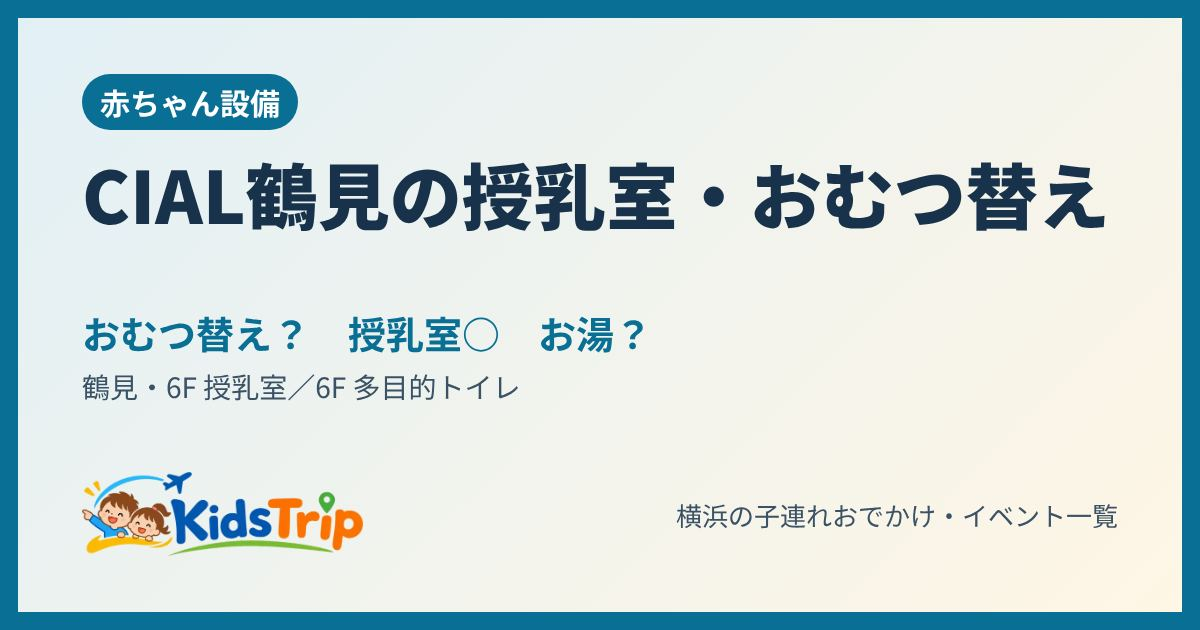
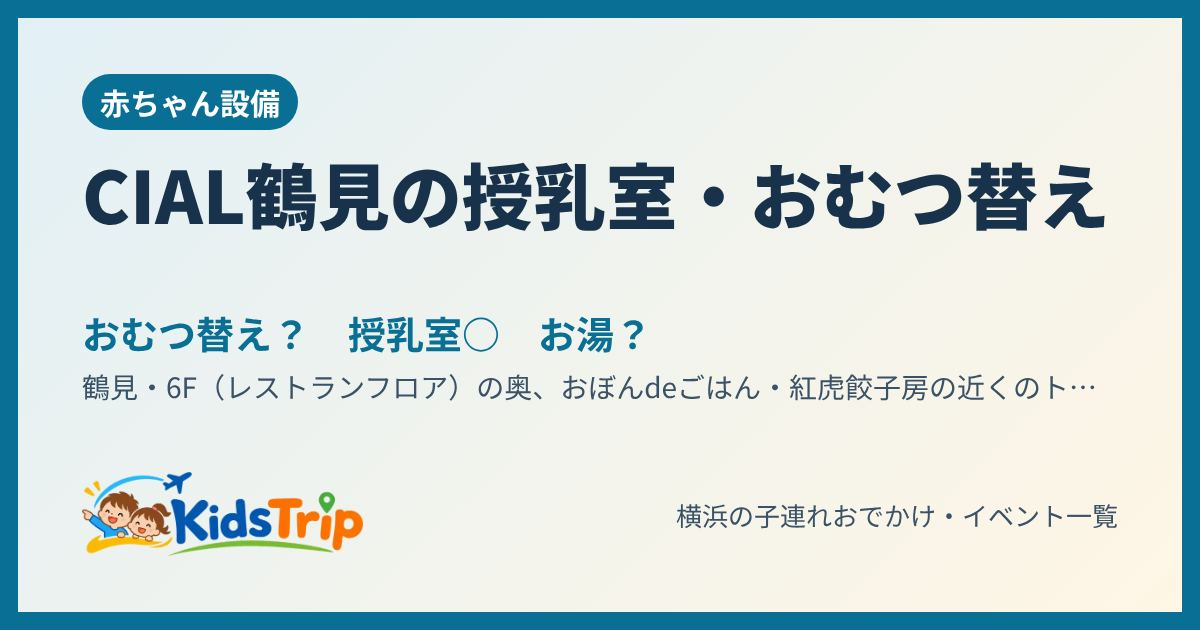
CIAL鶴見：授乳室の場所・営業時間を公式の画面から追加、位置を鶴見駅に修正（桜木町の位置になっていた）
Claude-Session: https://claude.ai/code/session_014AtJ2g3ghW1boxsW7syVwL

Changed region(s): [[0.1542, 0.573, 0.8942, 0.6333]]

diff --git a/spot/1hr0yvi/index.html b/spot/1hr0yvi/index.html
@@ -4,12 +4,12 @@
 <meta charset="utf-8">
 <meta name="viewport" content="width=device-width, initial-scale=1">
 <title>CIAL鶴見の授乳室は何階？おむつ替え・お湯｜KidsTrip</title>
-<meta name="description" content="CIAL鶴見（鶴見）の授乳室・おむつ替えの場所：6F 授乳室／6F 多目的トイレ。授乳室あり。">
+<meta name="description" content="CIAL鶴見（鶴見）の授乳室・おむつ替えの場所：6F（レストランフロア）の奥、おぼんdeごはん・紅虎餃子房の近くのトイレの並びに授乳室と多目的トイレ（6Fフロアガイド）。授乳室あり。">
 <link rel="canonical" href="https://kidstrip.jp/spot/1hr0yvi/">
 <meta property="og:type" content="article">
 <meta property="og:site_name" content="KidsTrip">
 <meta property="og:title" content="CIAL鶴見の授乳室は何階？おむつ替え・お湯｜KidsTrip">
-<meta property="og:description" content="CIAL鶴見（鶴見）の授乳室・おむつ替えの場所：6F 授乳室／6F 多目的トイレ。授乳室あり。">
+<meta property="og:description" content="CIAL鶴見（鶴見）の授乳室・おむつ替えの場所：6F（レストランフロア）の奥、おぼんdeごはん・紅虎餃子房の近くのトイレの並びに授乳室と多目的トイレ（6Fフロアガイド）。授乳室あり。">
 <meta property="og:url" content="https://kidstrip.jp/spot/1hr0yvi/">
 <meta property="og:image" content="https://kidstrip.jp/og/spot-1hr0yvi.jpg">
 <meta property="og:image:width" content="1200">
@@ -21,7 +21,7 @@
 <link rel="icon" href="../../img/favicon.png">
 <link rel="apple-touch-icon" href="../../img/apple-touch-icon.png">
 <script type="application/ld+json">{"@context": "https://schema.org", "@type": "BreadcrumbList", "itemListElement": [{"@type": "ListItem", "position": 1, "name": "トップ", "item": "https://kidstrip.jp/"}, {"@type": "ListItem", "position": 2, "name": "ごはん・おむつ", "item": "https://kidstrip.jp/#foodall"}, {"@type": "ListItem", "position": 3, "name": "CIAL鶴見"}]}</script>
-<script type="application/ld+json">{"@context": "https://schema.org", "@type": "Place", "name": "CIAL鶴見", "description": "CIAL鶴見（鶴見）の授乳室・おむつ替えの場所：6F 授乳室／6F 多目的トイレ。授乳室あり。", "url": "https://kidstrip.jp/spot/1hr0yvi/", "image": ["https://kidstrip.jp/og/spot-1hr0yvi.jpg"], "address": {"@type": "PostalAddress", "addressLocality": "横浜市", "addressRegion": "神奈川県", "addressCountry": "JP"}, "amenityFeature": [{"@type": "LocationFeatureSpecification", "name": "授乳室", "value": true}], "publicAccess": true, "sameAs": "https://www.jryscc.co.jp/cial/tsurumi/service/", "hasMap": "https://www.google.com/maps/search/?api=1&query=CIAL鶴見"}</script>
+<script type="application/ld+json">{"@context": "https://schema.org", "@type": "Place", "name": "CIAL鶴見", "description": "CIAL鶴見（鶴見）の授乳室・おむつ替えの場所：6F（レストランフロア）の奥、おぼんdeごはん・紅虎餃子房の近くのトイレの並びに授乳室と多目的トイレ（6Fフロアガイド）。授乳室あり。", "url": "https://kidstrip.jp/spot/1hr0yvi/", "image": ["https://kidstrip.jp/og/spot-1hr0yvi.jpg"], "address": {"@type": "PostalAddress", "addressLocality": "横浜市", "addressRegion": "神奈川県", "addressCountry": "JP"}, "amenityFeature": [{"@type": "LocationFeatureSpecification", "name": "授乳室", "value": true}], "publicAccess": true, "sameAs": "https://www.jryscc.co.jp/cial/tsurumi/service/", "hasMap": "https://www.google.com/maps/search/?api=1&query=CIAL鶴見"}</script>
 <style>
 .gkcmp th[scope=row]{white-space:nowrap}.gkcmp td{font-size:.92em}
 .gk{list-style:none;padding:0}.gk li{border:1px solid #e5e5e5;border-radius:10px;padding:10px 12px;margin:8px 0;line-height:1.7}.gk h3{margin:0 0 2px;font-size:1.02em}
@@ -52,19 +52,19 @@ footer{margin:28px 0 8px;font-size:12px;color:var(--muted)}
 <h1>CIAL鶴見（JR鶴見駅ビル）の授乳室・おむつ替え・お湯</h1>
 <table class="bm"><thead><tr><th>場所</th><th>おむつ替え</th><th>授乳室</th><th>お湯</th><th>レンジ</th></tr></thead><tbody><tr><th>CIAL鶴見</th><td class="u">？</td><td class="y">○</td><td class="u">？</td><td class="u">？</td></tr></tbody></table>
 <p class="legend">○ あり　× なし　？ 調べた範囲で確認できず</p>
-<table class="info"><tr><th>場所</th><td>6F 授乳室／6F 多目的トイレ</td></tr><tr><th>エリア</th><td>鶴見</td></tr></table>
+<table class="info"><tr><th>場所</th><td>6F（レストランフロア）の奥、おぼんdeごはん・紅虎餃子房の近くのトイレの並びに授乳室と多目的トイレ（6Fフロアガイド）</td></tr><tr><th>エリア</th><td>鶴見</td></tr></table>
 <ul class="chips"><li>6Fはレストランフロア（そば・とんかつ・定食・中華・イタリアンなど）</li></ul>
-<p class="sum">授乳室と多目的トイレはどちらも6F。おむつ替えの台・お湯・ベビーカー貸出は公式ページに記載なし。</p>
-<p class="small">出典：CIAL鶴見公式（サービス・館内のご案内／6Fフロアガイド・2026年11月確認）</p>
+<p class="sum">授乳室と多目的トイレはどちらも6Fで、トイレと並んでいる（6Fフロアガイド）。6Fは11:00〜22:30（ラストオーダー22:00）、1〜5Fのお店は10:00〜21:00。おむつ替えの台・お湯・電子レンジ・ベビーカー貸出は公式ページに記載なし。</p>
+<p class="small">出典：CIAL鶴見公式（サービス・館内のご案内／営業時間／6Fフロアガイド。利用者が送った公式の画面、2026年11月）</p>
 <div class="btns"><a class="btn main" data-act="official" href="https://www.jryscc.co.jp/cial/tsurumi/service/" target="_blank" rel="noopener">公式ページで確認</a>
 <a class="btn" href="https://www.google.com/maps/search/?api=1&amp;query=CIAL鶴見" target="_blank" rel="noopener">地図で見る</a>
 <button type="button" class="btn" data-share="1">🔗 リンクを送る・コピー</button></div>
 </article>
 
-<h2>歩いて10分以内の子連れで入りやすいごはん</h2><ul class="links food"><li><b>アロハテーブル コレットマーレみなとみらい（1F）</b>（ハワイアン）　ベビーカーで約2分<span class="tag">ベビーカーのまま入店OK</span><span class="tag">ベビーチェア</span><span class="tag">おむつ交換台</span></li><li><b>ベーカリーレストラン サンマルク コレットマーレみなとみらい店（6F）</b>（ベーカリーレストラン）　ベビーカーで約2分<span class="tag">ベビーカーOK（チェーンの案内）</span><span class="tag">桜木町駅すぐ</span></li><li><b>ダッキーダックキッチン コレットマーレみなとみらい店</b>（洋食）　ベビーカーで約2分<span class="tag">桜木町駅すぐ</span></li><li><b>モスプレミアム 桜木町クロスゲート店（1F）</b>（ハンバーガー）　ベビーカーで約4分<span class="tag">ベビーカーのまま入りやすい</span><span class="tag">席が広い</span><span class="tag">子ども歓迎</span></li></ul><p class="small">時間はベビーカーで歩いたときのめやす（直線距離から計算）。メニューや営業時間は行く前にお店で確かめてください。</p>
-<h2>歩いて15分以内でベビー服・子ども服・靴が買えるお店</h2><ul class="links food"><li><a href="https://colettemare-yokohama.com/shop/259885" target="_blank" rel="noopener">and ST コレットマーレ</a><span class="tag">キッズ</span>　お店のページで確認してください　ベビーカーで約2分</li><li><a href="https://www.muji.com/jp/shop/045614" target="_blank" rel="noopener">無印良品 Colette・Mareみなとみらい</a><span class="tag">キッズ</span>　11:00〜20:00　ベビーカーで約2分</li><li><a href="https://map.gu-global.com/jp/ja/" target="_blank" rel="noopener">GU コレットマーレ店</a><span class="tag">キッズ</span>　公式の店舗ページで確認してください（キッズ服あり・ベビー服はなし）　ベビーカーで約2分</li><li><a href="https://map.uniqlo.com/jp/ja/" target="_blank" rel="noopener">ユニクロ コレットマーレ桜木町店</a><span class="tag">ベビー・キッズ</span>　公式の店舗ページで確認してください　ベビーカーで約2分</li><li><a href="https://www.minatomirai-square.com/floor/detail/?cd=000013" target="_blank" rel="noopener">ABC-MART Premier Stage みなとみらい東急スクエア</a><span class="tag">子どもの靴</span>　お店のページで確認してください　ベビーカーで約12分</li></ul><p class="small">急なおもらし・汚れの着替えや、靴を忘れたときに。時間は直線距離からのめやす。在庫・営業時間はお店で確かめてください（出典：各チェーン公式の店舗検索）。</p>
+
+<h2>歩いて15分以内でベビー服・子ども服・靴が買えるお店</h2><ul class="links food"><li><a href="https://map.uniqlo.com/jp/ja/" target="_blank" rel="noopener">ユニクロ シァル鶴見店</a><span class="tag">ベビー・キッズ</span>　公式の店舗ページで確認してください　ベビーカーで約1分</li></ul><p class="small">急なおもらし・汚れの着替えや、靴を忘れたときに。時間は直線距離からのめやす。在庫・営業時間はお店で確かめてください（出典：各チェーン公式の店舗検索）。</p>
 <h2>同じエリアのほかの赤ちゃん設備</h2><table class="bm"><thead><tr><th>場所</th><th>おむつ替え</th><th>授乳室</th><th>お湯</th><th>レンジ</th></tr></thead><tbody><tr><th scope="row"><a href="/spot/1ecb3d7/">LICOPA鶴見</a></th><td class="y">○</td><td class="y">○</td><td class="y">○</td><td class="u">？</td></tr></tbody></table><p class="legend">○ あり　× なし　？ 調べた範囲で確認できず</p>
-<h2>歩いて15分くらいで行けるイベント・遊び場</h2><ul class="links"><li><a href="/event/pxzwdk/">ANAの飛行機に色をぬろう！親子ワークショップ</a>（11月22日(日)）</li><li><a href="/event/1czplid/">野毛山動物園 キリン「バックヤードツアー」</a>（12月5日(土)・12月19日(土)）</li><li><a href="/event/1n1numf/">SDGs未来都市・環境絵日記展2026（横浜市役所）</a>（会期 11/29〜12/6）</li><li><a href="/event/21uqt/">日本丸「飾り毛布」作り体験</a>（11月22日(日)）</li><li><a href="/event/fi4kvf/">のげやま子ども図書館「おやこフロア」（ねころべる絵本の部屋）</a>（いつでも（通年の施設））</li><li><a href="/event/95o4z/">帆船日本丸 満船飾（まんせんしょく）</a>（11月23日(月)・1月11日(月)）</li><li><a href="/event/1a8qgue/">0歳から大歓迎！図書館デビューDAY（中央図書館）</a>（1月7日(木)・1月14日(木)）</li><li><a href="/event/16t5vbc/">横浜北仲マルシェ（11月）</a>（11月22日(日)・11月23日(月)）</li></ul>
+
 
 
 <footer><p>KidsTrip（キッズトリップ）横浜の子連れおでかけ・イベント一覧。施設・主催者の公式情報などをもとに要約しています。内容は変わることがあるので、出かける前に必ず公式ページで確認してください。</p>

diff --git a/event/1n1numf/index.html b/event/1n1numf/index.html
@@ -69,7 +69,7 @@ footer{margin:28px 0 8px;font-size:12px;color:var(--muted)}
 <button type="button" class="btn" data-share="1">🔗 リンクを送る・コピー</button>
 <a class="btn line" href="https://line.me/R/share?text=%E3%80%90SDGs%E6%9C%AA%E6%9D%A5%E9%83%BD%E5%B8%82%E3%83%BB%E7%92%B0%E5%A2%83%E7%B5%B5%E6%97%A5%E8%A8%98%E5%B1%952026%EF%BC%88%E6%A8%AA%E6%B5%9C%E5%B8%82%E5%BD%B9%E6%89%80%EF%BC%89%E3%80%91%0A%E4%BC%9A%E6%9C%9F%2011/29%E3%80%9C12/6%E3%80%80%E5%85%AC%E5%BC%8F%E3%83%9A%E3%83%BC%E3%82%B8%E3%81%AB%E8%A8%98%E8%BC%89%E3%81%AA%E3%81%97%EF%BC%88%E5%B8%82%E5%BD%B9%E6%89%80%E3%81%AE%E9%96%8B%E3%81%84%E3%81%A6%E3%81%84%E3%82%8B%E6%99%82%E9%96%93%E3%81%AB%EF%BC%89%0A%E5%A0%B4%E6%89%80%EF%BC%9A%E4%B8%AD%E5%8C%BA%E3%83%BB%E6%A8%AA%E6%B5%9C%E5%B8%82%E5%BD%B9%E6%89%80%201F%20%E5%B1%95%E7%A4%BA%E3%82%B9%E3%83%9A%E3%83%BC%E3%82%B9A%E3%83%BBB%EF%BC%88%E6%A1%9C%E6%9C%A8%E7%94%BA%E9%A7%85%E5%89%8D%E3%83%BB%E9%A6%AC%E8%BB%8A%E9%81%93%E9%A7%85%E7%9B%B4%E7%B5%90%EF%BC%89%0Ahttps%3A//kidstrip.jp/event/1n1numf/" target="_blank" rel="noopener">LINEで送る</a></div>
 </article>
-<h2>歩いて10分以内のおむつ替え・授乳室・お湯</h2><table class="bm"><thead><tr><th>場所</th><th>おむつ替え</th><th>授乳室</th><th>お湯</th><th>レンジ</th></tr></thead><tbody><tr><th scope="row"><a href="/spot/1l0g3g5/">横浜市役所</a></th><td class="y">○</td><td class="y">○</td><td class="y">○</td><td class="u">？</td></tr><tr><th scope="row"><a href="/spot/1icjes/">シァル桜木町</a></th><td class="u">？</td><td class="y">○</td><td class="u">？</td><td class="u">？</td></tr><tr><th scope="row"><a href="/spot/1hr0yvi/">CIAL鶴見</a></th><td class="u">？</td><td class="y">○</td><td class="u">？</td><td class="u">？</td></tr><tr><th scope="row"><a href="/spot/1qg4qi4/">コレットマーレ</a></th><td class="y">○</td><td class="y">○</td><td class="y">○</td><td class="u">？</td></tr><tr><th scope="row"><a href="/spot/5ja5s4/">横浜みなと博物館</a></th><td class="y">○</td><td class="y">○</td><td class="n">×</td><td class="u">？</td></tr><tr><th scope="row"><a href="/spot/18ge06x/">横浜ランドマークプラザ</a></th><td class="y">○</td><td class="y">○</td><td class="y">○</td><td class="y">○</td></tr></tbody></table><p class="legend">○ あり　× なし　？ 調べた範囲で確認できず</p>
+<h2>歩いて10分以内のおむつ替え・授乳室・お湯</h2><table class="bm"><thead><tr><th>場所</th><th>おむつ替え</th><th>授乳室</th><th>お湯</th><th>レンジ</th></tr></thead><tbody><tr><th scope="row"><a href="/spot/1l0g3g5/">横浜市役所</a></th><td class="y">○</td><td class="y">○</td><td class="y">○</td><td class="u">？</td></tr><tr><th scope="row"><a href="/spot/1icjes/">シァル桜木町</a></th><td class="u">？</td><td class="y">○</td><td class="u">？</td><td class="u">？</td></tr><tr><th scope="row"><a href="/spot/1qg4qi4/">コレットマーレ</a></th><td class="y">○</td><td class="y">○</td><td class="y">○</td><td class="u">？</td></tr><tr><th scope="row"><a href="/spot/5ja5s4/">横浜みなと博物館</a></th><td class="y">○</td><td class="y">○</td><td class="n">×</td><td class="u">？</td></tr><tr><th scope="row"><a href="/spot/18ge06x/">横浜ランドマークプラザ</a></th><td class="y">○</td><td class="y">○</td><td class="y">○</td><td class="y">○</td></tr></tbody></table><p class="legend">○ あり　× なし　？ 調べた範囲で確認できず</p>
 <h2>行き方のめやす</h2><ul class="links"><li>🚃 最寄り 桜木町駅（ブルーライン）：歩いて約2分・エレベーターあり</li><li>🚃 桜木町駅（JR京浜東北線）：歩いて約5分・エレベーターあり</li><li>🅿 駐車場1か所（ランドマーク駐車場など・混みやすい）　🚲 CIAL桜木町 駐輪場（約4分・最初の90分無料、以降24時間ごと80円）ほか2か所</li></ul>
 <h2>歩いて10分以内の子連れで入りやすいごはん</h2><ul class="links food"><li><b>モスプレミアム 桜木町クロスゲート店（1F）</b>（ハンバーガー）　ベビーカーで約2分<span class="tag">ベビーカーのまま入りやすい</span><span class="tag">席が広い</span><span class="tag">子ども歓迎</span></li><li><b>アロハテーブル コレットマーレみなとみらい（1F）</b>（ハワイアン）　ベビーカーで約5分<span class="tag">ベビーカーのまま入店OK</span><span class="tag">ベビーチェア</span><span class="tag">おむつ交換台</span></li><li><b>ベーカリーレストラン サンマルク コレットマーレみなとみらい店（6F）</b>（ベーカリーレストラン）　ベビーカーで約5分<span class="tag">ベビーカーOK（チェーンの案内）</span><span class="tag">桜木町駅すぐ</span></li><li><b>ダッキーダックキッチン コレットマーレみなとみらい店</b>（洋食）　ベビーカーで約5分<span class="tag">桜木町駅すぐ</span></li></ul><p class="small">時間はベビーカーで歩いたときのめやす（直線距離から計算）。メニューや営業時間は行く前にお店で確かめてください。</p>
 <h2>歩いて15分以内でベビー服・子ども服・靴が買えるお店</h2><ul class="links food"><li><a href="https://colettemare-yokohama.com/shop/259885" target="_blank" rel="noopener">and ST コレットマーレ</a><span class="tag">キッズ</span>　お店のページで確認してください　ベビーカーで約5分</li><li><a href="https://www.muji.com/jp/shop/045614" target="_blank" rel="noopener">無印良品 Colette・Mareみなとみらい</a><span class="tag">キッズ</span>　11:00〜20:00　ベビーカーで約5分</li><li><a href="https://map.gu-global.com/jp/ja/" target="_blank" rel="noopener">GU コレットマーレ店</a><span class="tag">キッズ</span>　公式の店舗ページで確認してください（キッズ服あり・ベビー服はなし）　ベビーカーで約5分</li><li><a href="https://map.uniqlo.com/jp/ja/" target="_blank" rel="noopener">ユニクロ コレットマーレ桜木町店</a><span class="tag">ベビー・キッズ</span>　公式の店舗ページで確認してください　ベビーカーで約5分</li><li><a href="https://www.minatomirai-square.com/floor/detail/?cd=000013" target="_blank" rel="noopener">ABC-MART Premier Stage みなとみらい東急スクエア</a><span class="tag">子どもの靴</span>　お店のページで確認してください　ベビーカーで約11分</li></ul><p class="small">急なおもらし・汚れの着替えや、靴を忘れたときに。時間は直線距離からのめやす。在庫・営業時間はお店で確かめてください（出典：各チェーン公式の店舗検索）。</p>

diff --git a/event/1czplid/index.html b/event/1czplid/index.html
@@ -69,7 +69,7 @@ footer{margin:28px 0 8px;font-size:12px;color:var(--muted)}
 <button type="button" class="btn" data-share="1">🔗 リンクを送る・コピー</button>
 <a class="btn line" href="https://line.me/R/share?text=%E3%80%90%E9%87%8E%E6%AF%9B%E5%B1%B1%E5%8B%95%E7%89%A9%E5%9C%92%20%E3%82%AD%E3%83%AA%E3%83%B3%E3%80%8C%E3%83%90%E3%83%83%E3%82%AF%E3%83%A4%E3%83%BC%E3%83%89%E3%83%84%E3%82%A2%E3%83%BC%E3%80%8D%E3%80%91%0A12%E6%9C%885%E6%97%A5%28%E5%9C%9F%29%E3%83%BB12%E6%9C%8819%E6%97%A5%28%E5%9C%9F%29%E3%80%8014%3A00%E3%80%9C14%3A30%EF%BC%8813%3A50%20%E5%8B%95%E7%89%A9%E5%9C%92%E5%85%A5%E5%8F%A3%E9%9B%86%E5%90%88%EF%BC%89%0A%E5%A0%B4%E6%89%80%EF%BC%9A%E8%A5%BF%E5%8C%BA%E3%83%BB%E9%87%8E%E6%AF%9B%E5%B1%B1%E5%8B%95%E7%89%A9%E5%9C%92%EF%BC%88%E6%A1%9C%E6%9C%A8%E7%94%BA%E9%A7%85%E3%81%8B%E3%82%89%E6%AD%A9%E3%81%84%E3%81%A6%E7%B4%8415%E5%88%86%EF%BC%89%0Ahttps%3A//kidstrip.jp/event/1czplid/" target="_blank" rel="noopener">LINEで送る</a></div>
 </article>
-<h2>歩いて10分以内のおむつ替え・授乳室・お湯</h2><table class="bm"><thead><tr><th>場所</th><th>おむつ替え</th><th>授乳室</th><th>お湯</th><th>レンジ</th></tr></thead><tbody><tr><th scope="row"><a href="/spot/1icjes/">シァル桜木町</a></th><td class="u">？</td><td class="y">○</td><td class="u">？</td><td class="u">？</td></tr><tr><th scope="row"><a href="/spot/1hr0yvi/">CIAL鶴見</a></th><td class="u">？</td><td class="y">○</td><td class="u">？</td><td class="u">？</td></tr><tr><th scope="row"><a href="/spot/1qg4qi4/">コレットマーレ</a></th><td class="y">○</td><td class="y">○</td><td class="y">○</td><td class="u">？</td></tr><tr><th scope="row"><a href="/spot/1l0g3g5/">横浜市役所</a></th><td class="y">○</td><td class="y">○</td><td class="y">○</td><td class="u">？</td></tr><tr><th scope="row"><a href="/spot/5ja5s4/">横浜みなと博物館</a></th><td class="y">○</td><td class="y">○</td><td class="n">×</td><td class="u">？</td></tr><tr><th scope="row"><a href="/spot/18ge06x/">横浜ランドマークプラザ</a></th><td class="y">○</td><td class="y">○</td><td class="y">○</td><td class="y">○</td></tr></tbody></table><p class="legend">○ あり　× なし　？ 調べた範囲で確認できず</p>
+<h2>歩いて10分以内のおむつ替え・授乳室・お湯</h2><table class="bm"><thead><tr><th>場所</th><th>おむつ替え</th><th>授乳室</th><th>お湯</th><th>レンジ</th></tr></thead><tbody><tr><th scope="row"><a href="/spot/1icjes/">シァル桜木町</a></th><td class="u">？</td><td class="y">○</td><td class="u">？</td><td class="u">？</td></tr><tr><th scope="row"><a href="/spot/1qg4qi4/">コレットマーレ</a></th><td class="y">○</td><td class="y">○</td><td class="y">○</td><td class="u">？</td></tr><tr><th scope="row"><a href="/spot/1l0g3g5/">横浜市役所</a></th><td class="y">○</td><td class="y">○</td><td class="y">○</td><td class="u">？</td></tr><tr><th scope="row"><a href="/spot/5ja5s4/">横浜みなと博物館</a></th><td class="y">○</td><td class="y">○</td><td class="n">×</td><td class="u">？</td></tr><tr><th scope="row"><a href="/spot/18ge06x/">横浜ランドマークプラザ</a></th><td class="y">○</td><td class="y">○</td><td class="y">○</td><td class="y">○</td></tr></tbody></table><p class="legend">○ あり　× なし　？ 調べた範囲で確認できず</p>
 <h2>行き方のめやす</h2><ul class="links"><li>🚃 最寄り 桜木町駅（ブルーライン）：歩いて約2分・エレベーターあり</li><li>🚃 桜木町駅（JR京浜東北線）：歩いて約5分・エレベーターあり</li><li>🅿 駐車場1か所（ランドマーク駐車場など・混みやすい）　🚲 CIAL桜木町 駐輪場（約1分・最初の90分無料、以降24時間ごと80円）ほか2か所</li></ul>
 <h2>歩いて10分以内の子連れで入りやすいごはん</h2><ul class="links food"><li><b>アロハテーブル コレットマーレみなとみらい（1F）</b>（ハワイアン）　ベビーカーで約2分<span class="tag">ベビーカーのまま入店OK</span><span class="tag">ベビーチェア</span><span class="tag">おむつ交換台</span></li><li><b>ベーカリーレストラン サンマルク コレットマーレみなとみらい店（6F）</b>（ベーカリーレストラン）　ベビーカーで約2分<span class="tag">ベビーカーOK（チェーンの案内）</span><span class="tag">桜木町駅すぐ</span></li><li><b>ダッキーダックキッチン コレットマーレみなとみらい店</b>（洋食）　ベビーカーで約2分<span class="tag">桜木町駅すぐ</span></li><li><b>モスプレミアム 桜木町クロスゲート店（1F）</b>（ハンバーガー）　ベビーカーで約4分<span class="tag">ベビーカーのまま入りやすい</span><span class="tag">席が広い</span><span class="tag">子ども歓迎</span></li></ul><p class="small">時間はベビーカーで歩いたときのめやす（直線距離から計算）。メニューや営業時間は行く前にお店で確かめてください。</p>
 <h2>歩いて15分以内でベビー服・子ども服・靴が買えるお店</h2><ul class="links food"><li><a href="https://colettemare-yokohama.com/shop/259885" target="_blank" rel="noopener">and ST コレットマーレ</a><span class="tag">キッズ</span>　お店のページで確認してください　ベビーカーで約2分</li><li><a href="https://www.muji.com/jp/shop/045614" target="_blank" rel="noopener">無印良品 Colette・Mareみなとみらい</a><span class="tag">キッズ</span>　11:00〜20:00　ベビーカーで約2分</li><li><a href="https://map.gu-global.com/jp/ja/" target="_blank" rel="noopener">GU コレットマーレ店</a><span class="tag">キッズ</span>　公式の店舗ページで確認してください（キッズ服あり・ベビー服はなし）　ベビーカーで約2分</li><li><a href="https://map.uniqlo.com/jp/ja/" target="_blank" rel="noopener">ユニクロ コレットマーレ桜木町店</a><span class="tag">ベビー・キッズ</span>　公式の店舗ページで確認してください　ベビーカーで約2分</li><li><a href="https://www.minatomirai-square.com/floor/detail/?cd=000013" target="_blank" rel="noopener">ABC-MART Premier Stage みなとみらい東急スクエア</a><span class="tag">子どもの靴</span>　お店のページで確認してください　ベビーカーで約12分</li></ul><p class="small">急なおもらし・汚れの着替えや、靴を忘れたときに。時間は直線距離からのめやす。在庫・営業時間はお店で確かめてください（出典：各チェーン公式の店舗検索）。</p>

diff --git a/event/fi4kvf/index.html b/event/fi4kvf/index.html
@@ -69,7 +69,7 @@ footer{margin:28px 0 8px;font-size:12px;color:var(--muted)}
 <button type="button" class="btn" data-share="1">🔗 リンクを送る・コピー</button>
 <a class="btn line" href="https://line.me/R/share?text=%E3%80%90%E3%81%AE%E3%81%92%E3%82%84%E3%81%BE%E5%AD%90%E3%81%A9%E3%82%82%E5%9B%B3%E6%9B%B8%E9%A4%A8%E3%80%8C%E3%81%8A%E3%82%84%E3%81%93%E3%83%95%E3%83%AD%E3%82%A2%E3%80%8D%EF%BC%88%E3%81%AD%E3%81%93%E3%82%8D%E3%81%B9%E3%82%8B%E7%B5%B5%E6%9C%AC%E3%81%AE%E9%83%A8%E5%B1%8B%EF%BC%89%E3%80%91%0A%E3%81%84%E3%81%A4%E3%81%A7%E3%82%82%EF%BC%88%E9%80%9A%E5%B9%B4%E3%81%AE%E6%96%BD%E8%A8%AD%EF%BC%89%E3%80%809%3A30%E3%80%9C17%3A00%0A%E5%A0%B4%E6%89%80%EF%BC%9A%E8%A5%BF%E5%8C%BA%E3%83%BB%E6%A8%AA%E6%B5%9C%E5%B8%82%E4%B8%AD%E5%A4%AE%E5%9B%B3%E6%9B%B8%E9%A4%A8%201%E9%9A%8E%EF%BC%88%E3%81%AE%E3%81%92%E3%82%84%E3%81%BE%E5%AD%90%E3%81%A9%E3%82%82%E5%9B%B3%E6%9B%B8%E9%A4%A8%EF%BC%89%0Ahttps%3A//kidstrip.jp/event/fi4kvf/" target="_blank" rel="noopener">LINEで送る</a></div>
 </article>
-<h2>歩いて10分以内のおむつ替え・授乳室・お湯</h2><table class="bm"><thead><tr><th>場所</th><th>おむつ替え</th><th>授乳室</th><th>お湯</th><th>レンジ</th></tr></thead><tbody><tr><th scope="row"><a href="/spot/2ecfoj/">野毛山動物園</a></th><td class="y">○</td><td class="y">○</td><td class="y">○</td><td class="u">？</td></tr><tr><th scope="row"><a href="/spot/1qg4qi4/">コレットマーレ</a></th><td class="y">○</td><td class="y">○</td><td class="y">○</td><td class="u">？</td></tr><tr><th scope="row"><a href="/spot/1hr0yvi/">CIAL鶴見</a></th><td class="u">？</td><td class="y">○</td><td class="u">？</td><td class="u">？</td></tr><tr><th scope="row"><a href="/spot/1icjes/">シァル桜木町</a></th><td class="u">？</td><td class="y">○</td><td class="u">？</td><td class="u">？</td></tr></tbody></table><p class="legend">○ あり　× なし　？ 調べた範囲で確認できず</p>
+<h2>歩いて10分以内のおむつ替え・授乳室・お湯</h2><table class="bm"><thead><tr><th>場所</th><th>おむつ替え</th><th>授乳室</th><th>お湯</th><th>レンジ</th></tr></thead><tbody><tr><th scope="row"><a href="/spot/2ecfoj/">野毛山動物園</a></th><td class="y">○</td><td class="y">○</td><td class="y">○</td><td class="u">？</td></tr><tr><th scope="row"><a href="/spot/1qg4qi4/">コレットマーレ</a></th><td class="y">○</td><td class="y">○</td><td class="y">○</td><td class="u">？</td></tr><tr><th scope="row"><a href="/spot/1icjes/">シァル桜木町</a></th><td class="u">？</td><td class="y">○</td><td class="u">？</td><td class="u">？</td></tr></tbody></table><p class="legend">○ あり　× なし　？ 調べた範囲で確認できず</p>
 <h2>行き方のめやす</h2><ul class="links"><li>🅿 駐車場2か所（野毛山自動車駐車場など・混みやすい）　🚲 コレットマーレ 駐輪場（約8分・最初の3時間無料（以降の料金は現地で確認））ほか1か所</li></ul>
 <h2>歩いて10分以内の子連れで入りやすいごはん</h2><ul class="links food"><li><b>アロハテーブル コレットマーレみなとみらい（1F）</b>（ハワイアン）　ベビーカーで約8分<span class="tag">ベビーカーのまま入店OK</span><span class="tag">ベビーチェア</span><span class="tag">おむつ交換台</span></li><li><b>ベーカリーレストラン サンマルク コレットマーレみなとみらい店（6F）</b>（ベーカリーレストラン）　ベビーカーで約8分<span class="tag">ベビーカーOK（チェーンの案内）</span><span class="tag">桜木町駅すぐ</span></li><li><b>ダッキーダックキッチン コレットマーレみなとみらい店</b>（洋食）　ベビーカーで約8分<span class="tag">桜木町駅すぐ</span></li></ul><p class="small">時間はベビーカーで歩いたときのめやす（直線距離から計算）。メニューや営業時間は行く前にお店で確かめてください。</p>
 <h2>歩いて15分以内でベビー服・子ども服・靴が買えるお店</h2><ul class="links food"><li><a href="https://colettemare-yokohama.com/shop/259885" target="_blank" rel="noopener">and ST コレットマーレ</a><span class="tag">キッズ</span>　お店のページで確認してください　ベビーカーで約8分</li><li><a href="https://www.muji.com/jp/shop/045614" target="_blank" rel="noopener">無印良品 Colette・Mareみなとみらい</a><span class="tag">キッズ</span>　11:00〜20:00　ベビーカーで約8分</li><li><a href="https://map.gu-global.com/jp/ja/" target="_blank" rel="noopener">GU コレットマーレ店</a><span class="tag">キッズ</span>　公式の店舗ページで確認してください（キッズ服あり・ベビー服はなし）　ベビーカーで約8分</li><li><a href="https://map.uniqlo.com/jp/ja/" target="_blank" rel="noopener">ユニクロ コレットマーレ桜木町店</a><span class="tag">ベビー・キッズ</span>　公式の店舗ページで確認してください　ベビーカーで約8分</li></ul><p class="small">急なおもらし・汚れの着替えや、靴を忘れたときに。時間は直線距離からのめやす。在庫・営業時間はお店で確かめてください（出典：各チェーン公式の店舗検索）。</p>

diff --git a/event/1a8qgue/index.html b/event/1a8qgue/index.html
@@ -69,7 +69,7 @@ footer{margin:28px 0 8px;font-size:12px;color:var(--muted)}
 <button type="button" class="btn" data-share="1">🔗 リンクを送る・コピー</button>
 <a class="btn line" href="https://line.me/R/share?text=%E3%80%900%E6%AD%B3%E3%81%8B%E3%82%89%E5%A4%A7%E6%AD%93%E8%BF%8E%EF%BC%81%E5%9B%B3%E6%9B%B8%E9%A4%A8%E3%83%87%E3%83%93%E3%83%A5%E3%83%BCDAY%EF%BC%88%E4%B8%AD%E5%A4%AE%E5%9B%B3%E6%9B%B8%E9%A4%A8%EF%BC%89%E3%80%91%0A1%E6%9C%887%E6%97%A5%28%E6%9C%A8%29%E3%83%BB1%E6%9C%8814%E6%97%A5%28%E6%9C%A8%29%E3%80%8011%3A00%E3%80%9C12%3A00%0A%E5%A0%B4%E6%89%80%EF%BC%9A%E8%A5%BF%E5%8C%BA%E3%83%BB%E4%B8%AD%E5%A4%AE%E5%9B%B3%E6%9B%B8%E9%A4%A8%201%E9%9A%8E%20%E3%81%AE%E3%81%92%E3%82%84%E3%81%BE%E5%AD%90%E3%81%A9%E3%82%82%E5%9B%B3%E6%9B%B8%E9%A4%A8%20%E3%81%8A%E3%82%84%E3%81%93%E3%83%95%E3%83%AD%E3%82%A2%0Ahttps%3A//kidstrip.jp/event/1a8qgue/" target="_blank" rel="noopener">LINEで送る</a></div>
 </article>
-<h2>歩いて10分以内のおむつ替え・授乳室・お湯</h2><table class="bm"><thead><tr><th>場所</th><th>おむつ替え</th><th>授乳室</th><th>お湯</th><th>レンジ</th></tr></thead><tbody><tr><th scope="row"><a href="/spot/2ecfoj/">野毛山動物園</a></th><td class="y">○</td><td class="y">○</td><td class="y">○</td><td class="u">？</td></tr><tr><th scope="row"><a href="/spot/1qg4qi4/">コレットマーレ</a></th><td class="y">○</td><td class="y">○</td><td class="y">○</td><td class="u">？</td></tr><tr><th scope="row"><a href="/spot/1hr0yvi/">CIAL鶴見</a></th><td class="u">？</td><td class="y">○</td><td class="u">？</td><td class="u">？</td></tr><tr><th scope="row"><a href="/spot/1icjes/">シァル桜木町</a></th><td class="u">？</td><td class="y">○</td><td class="u">？</td><td class="u">？</td></tr></tbody></table><p class="legend">○ あり　× なし　？ 調べた範囲で確認できず</p>
+<h2>歩いて10分以内のおむつ替え・授乳室・お湯</h2><table class="bm"><thead><tr><th>場所</th><th>おむつ替え</th><th>授乳室</th><th>お湯</th><th>レンジ</th></tr></thead><tbody><tr><th scope="row"><a href="/spot/2ecfoj/">野毛山動物園</a></th><td class="y">○</td><td class="y">○</td><td class="y">○</td><td class="u">？</td></tr><tr><th scope="row"><a href="/spot/1qg4qi4/">コレットマーレ</a></th><td class="y">○</td><td class="y">○</td><td class="y">○</td><td class="u">？</td></tr><tr><th scope="row"><a href="/spot/1icjes/">シァル桜木町</a></th><td class="u">？</td><td class="y">○</td><td class="u">？</td><td class="u">？</td></tr></tbody></table><p class="legend">○ あり　× なし　？ 調べた範囲で確認できず</p>
 <h2>行き方のめやす</h2><ul class="links"><li>🅿 駐車場2か所（野毛山自動車駐車場など・混みやすい）　🚲 コレットマーレ 駐輪場（約8分・最初の3時間無料（以降の料金は現地で確認））ほか1か所</li></ul>
 <h2>歩いて10分以内の子連れで入りやすいごはん</h2><ul class="links food"><li><b>アロハテーブル コレットマーレみなとみらい（1F）</b>（ハワイアン）　ベビーカーで約8分<span class="tag">ベビーカーのまま入店OK</span><span class="tag">ベビーチェア</span><span class="tag">おむつ交換台</span></li><li><b>ベーカリーレストラン サンマルク コレットマーレみなとみらい店（6F）</b>（ベーカリーレストラン）　ベビーカーで約8分<span class="tag">ベビーカーOK（チェーンの案内）</span><span class="tag">桜木町駅すぐ</span></li><li><b>ダッキーダックキッチン コレットマーレみなとみらい店</b>（洋食）　ベビーカーで約8分<span class="tag">桜木町駅すぐ</span></li></ul><p class="small">時間はベビーカーで歩いたときのめやす（直線距離から計算）。メニューや営業時間は行く前にお店で確かめてください。</p>
 <h2>歩いて15分以内でベビー服・子ども服・靴が買えるお店</h2><ul class="links food"><li><a href="https://colettemare-yokohama.com/shop/259885" target="_blank" rel="noopener">and ST コレットマーレ</a><span class="tag">キッズ</span>　お店のページで確認してください　ベビーカーで約8分</li><li><a href="https://www.muji.com/jp/shop/045614" target="_blank" rel="noopener">無印良品 Colette・Mareみなとみらい</a><span class="tag">キッズ</span>　11:00〜20:00　ベビーカーで約8分</li><li><a href="https://map.gu-global.com/jp/ja/" target="_blank" rel="noopener">GU コレットマーレ店</a><span class="tag">キッズ</span>　公式の店舗ページで確認してください（キッズ服あり・ベビー服はなし）　ベビーカーで約8分</li><li><a href="https://map.uniqlo.com/jp/ja/" target="_blank" rel="noopener">ユニクロ コレットマーレ桜木町店</a><span class="tag">ベビー・キッズ</span>　公式の店舗ページで確認してください　ベビーカーで約8分</li></ul><p class="small">急なおもらし・汚れの着替えや、靴を忘れたときに。時間は直線距離からのめやす。在庫・営業時間はお店で確かめてください（出典：各チェーン公式の店舗検索）。</p>

diff --git a/js/data.js b/js/data.js
@@ -753,8 +753,8 @@ const BABY = {
   "tsurumi": [
     { n:"LICOPA鶴見（鶴見駅から歩いて14分）", where:"1F GACHA WORLD奥のベビーケアルーム（おむつ交換台：寝かせて2台・立って1台／授乳用個室2室／調乳用温水器／キッズ用トイレ）", d:true, f:true, w:true, ex:["キッズ用トイレ（大・小）","子ども用の手洗い台","男女とも使える（授乳用個室だけ女性専用）","1F・2Fの各男女トイレにもおむつ交換台"],
       note:"同じ1Fに無料の遊び場「PARK」（芝生と遊具）。駐車場は最大3時間無料。", url:"https://tsurumi.licopa.jp/access/", src:"LICOPA鶴見公式（ベビーケアルーム・2026年11月確認）" },
-    { n:"CIAL鶴見（JR鶴見駅ビル）", where:"6F 授乳室／6F 多目的トイレ", d:null, f:true, w:null, ex:["6Fはレストランフロア（そば・とんかつ・定食・中華・イタリアンなど）"],
-      note:"授乳室と多目的トイレはどちらも6F。おむつ替えの台・お湯・ベビーカー貸出は公式ページに記載なし。", url:"https://www.jryscc.co.jp/cial/tsurumi/service/", src:"CIAL鶴見公式（サービス・館内のご案内／6Fフロアガイド・2026年11月確認）" },
+    { n:"CIAL鶴見（JR鶴見駅ビル）", where:"6F（レストランフロア）の奥、おぼんdeごはん・紅虎餃子房の近くのトイレの並びに授乳室と多目的トイレ（6Fフロアガイド）", d:null, f:true, w:null, ex:["6Fはレストランフロア（そば・とんかつ・定食・中華・イタリアンなど）"],
+      note:"授乳室と多目的トイレはどちらも6Fで、トイレと並んでいる（6Fフロアガイド）。6Fは11:00〜22:30（ラストオーダー22:00）、1〜5Fのお店は10:00〜21:00。おむつ替えの台・お湯・電子レンジ・ベビーカー貸出は公式ページに記載なし。", url:"https://www.jryscc.co.jp/cial/tsurumi/service/", src:"CIAL鶴見公式（サービス・館内のご案内／営業時間／6Fフロアガイド。利用者が送った公式の画面、2026年11月）" },
   ],
   "tsunashima": [
     { n:"アピタテラス横浜綱島", where:"2F ベビールーム（授乳・おむつ替え・純水給湯器）", d:true, f:true, w:true, ex:["ベビーカー・キャラクターカート無料貸出（100円硬貨が必要・返却時に戻る）"],
@@ -806,7 +806,7 @@ const VENUE_GEO = [
   [/開港資料館|LOCAL BOOK STORE/, [35.4467,139.6430]], [/山手西洋館|山手イタリア山/, [35.4380,139.6490]]
 ];
 const SPOT_GEO = {
-  "ミオカ・リスト館（上大岡駅前）":[35.4088,139.5958], "港北みなも（センター南）":[35.5462,139.5772], "横浜市役所（桜木町駅前）":[35.4513,139.6333], "横浜ポルタ（横浜駅東口の地下街）":[35.4655,139.6240], "横浜ビブレ（横浜駅西口）":[35.4650,139.6200], "ヨドバシ横浜（横浜駅西口）":[35.4668,139.6205], "横浜スカイビル（横浜駅東口）":[35.4632,139.6250], "シァル横浜（横浜駅ビル）":[35.4660,139.6225], "シァル桜木町（桜木町駅直結）":[35.4510,139.6312],
+  "ミオカ・リスト館（上大岡駅前）":[35.4088,139.5958], "港北みなも（センター南）":[35.5462,139.5772], "横浜市役所（桜木町駅前）":[35.4513,139.6333], "横浜ポルタ（横浜駅東口の地下街）":[35.4655,139.6240], "横浜ビブレ（横浜駅西口）":[35.4650,139.6200], "ヨドバシ横浜（横浜駅西口）":[35.4668,139.6205], "横浜スカイビル（横浜駅東口）":[35.4632,139.6250], "シァル横浜（横浜駅ビル）":[35.4660,139.6225], "シァル桜木町（桜木町駅直結）":[35.4510,139.6312], "CIAL鶴見（JR鶴見駅ビル）":[35.5078,139.6765],
   "MARK IS みなとみらい":[35.4575,139.6330], "横浜ランドマークプラザ":[35.4552,139.6318], "コレットマーレ（桜木町駅前）":[35.4515,139.6302], "みなとみらい東急スクエア":[35.4565,139.6338], "横浜アンパンマンこどもミュージアム":[35.4635,139.6300],
   "横浜赤レンガ倉庫":[35.4527,139.6430], "MARINE & WALK YOKOHAMA":[35.4548,139.6433], "横浜ハンマーヘッド":[35.4575,139.6440], "象の鼻テラス":[35.4507,139.6418],
   "横浜マリンタワー":[35.4440,139.6510], "THE WHARF HOUSE 山下公園":[35.4458,139.6502], "横浜中華街":[35.4425,139.6460],

diff --git a/index.html b/index.html
@@ -754,7 +754,7 @@ section[id], div[id="events"] { scroll-margin-top: 56px; }
   </footer>
 </div>
 
-<script src="js/data.js?v=5e1c8ec229" defer></script>
+<script src="js/data.js?v=7945635917" defer></script>
 <script src="js/app.js?v=1e28e73a7b" defer></script>
 </body>
 </html>

diff --git a/tools/runs.md b/tools/runs.md
@@ -52,3 +52,4 @@
 | 2026-11-22 | 利用者との作業 | 09:52〜09:52 | 2 | 記録のスクリプト：日別シートの「うち検索から」を「うち検索から（ページ表示）」と「検索から来た人」に分けた（利用者が貼り直して反映） |
 | 2026-11-22 | 利用者との作業 | 10:01〜10:01 | 2 | シァル桜木町の授乳室の場所（本館西の端・紅葉坂ギャラリー側）を利用者が送った公式フロアガイドの画面から追加 |
 | 2026-11-22 | 利用者との作業 | 10:01〜10:01 | 1 | シァル桜木町の授乳室の場所を利用者の指摘で訂正（1F コレットマーレとの連絡口側のトイレ） |
+| 2026-11-22 | 利用者との作業 | 11:03〜11:03 | 3 | CIAL鶴見：授乳室の場所（6Fトイレの並び）と営業時間を利用者が送った公式の画面から追加、位置を鶴見駅に（それまで桜木町の位置になっていた） |
